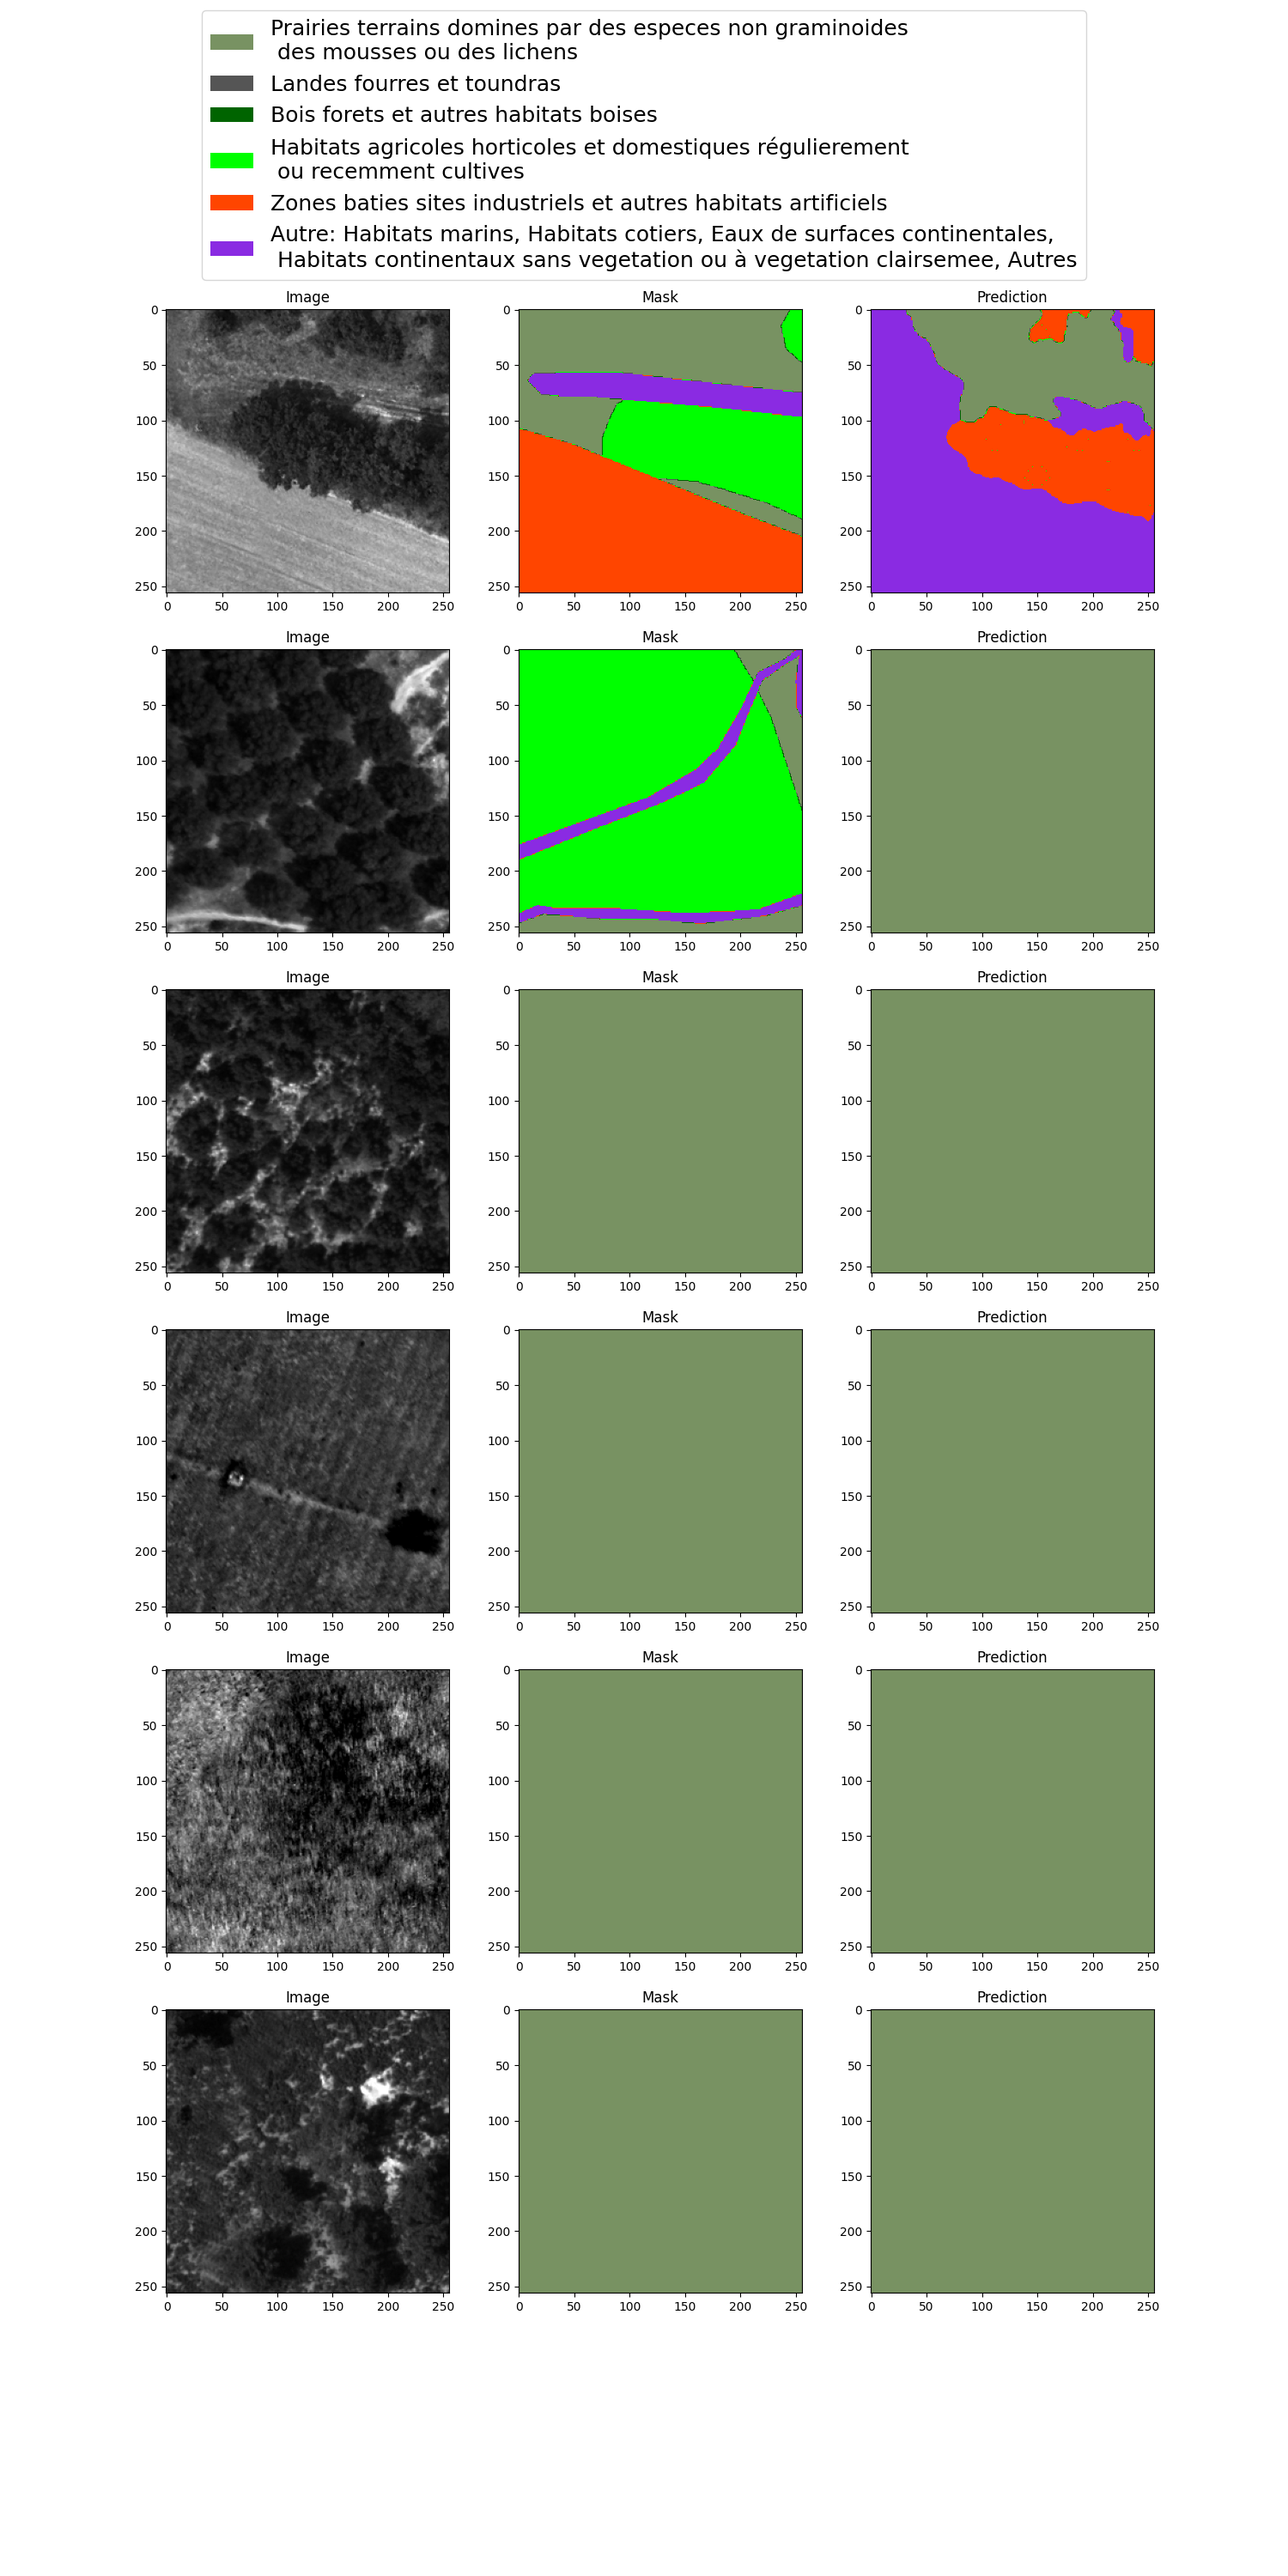
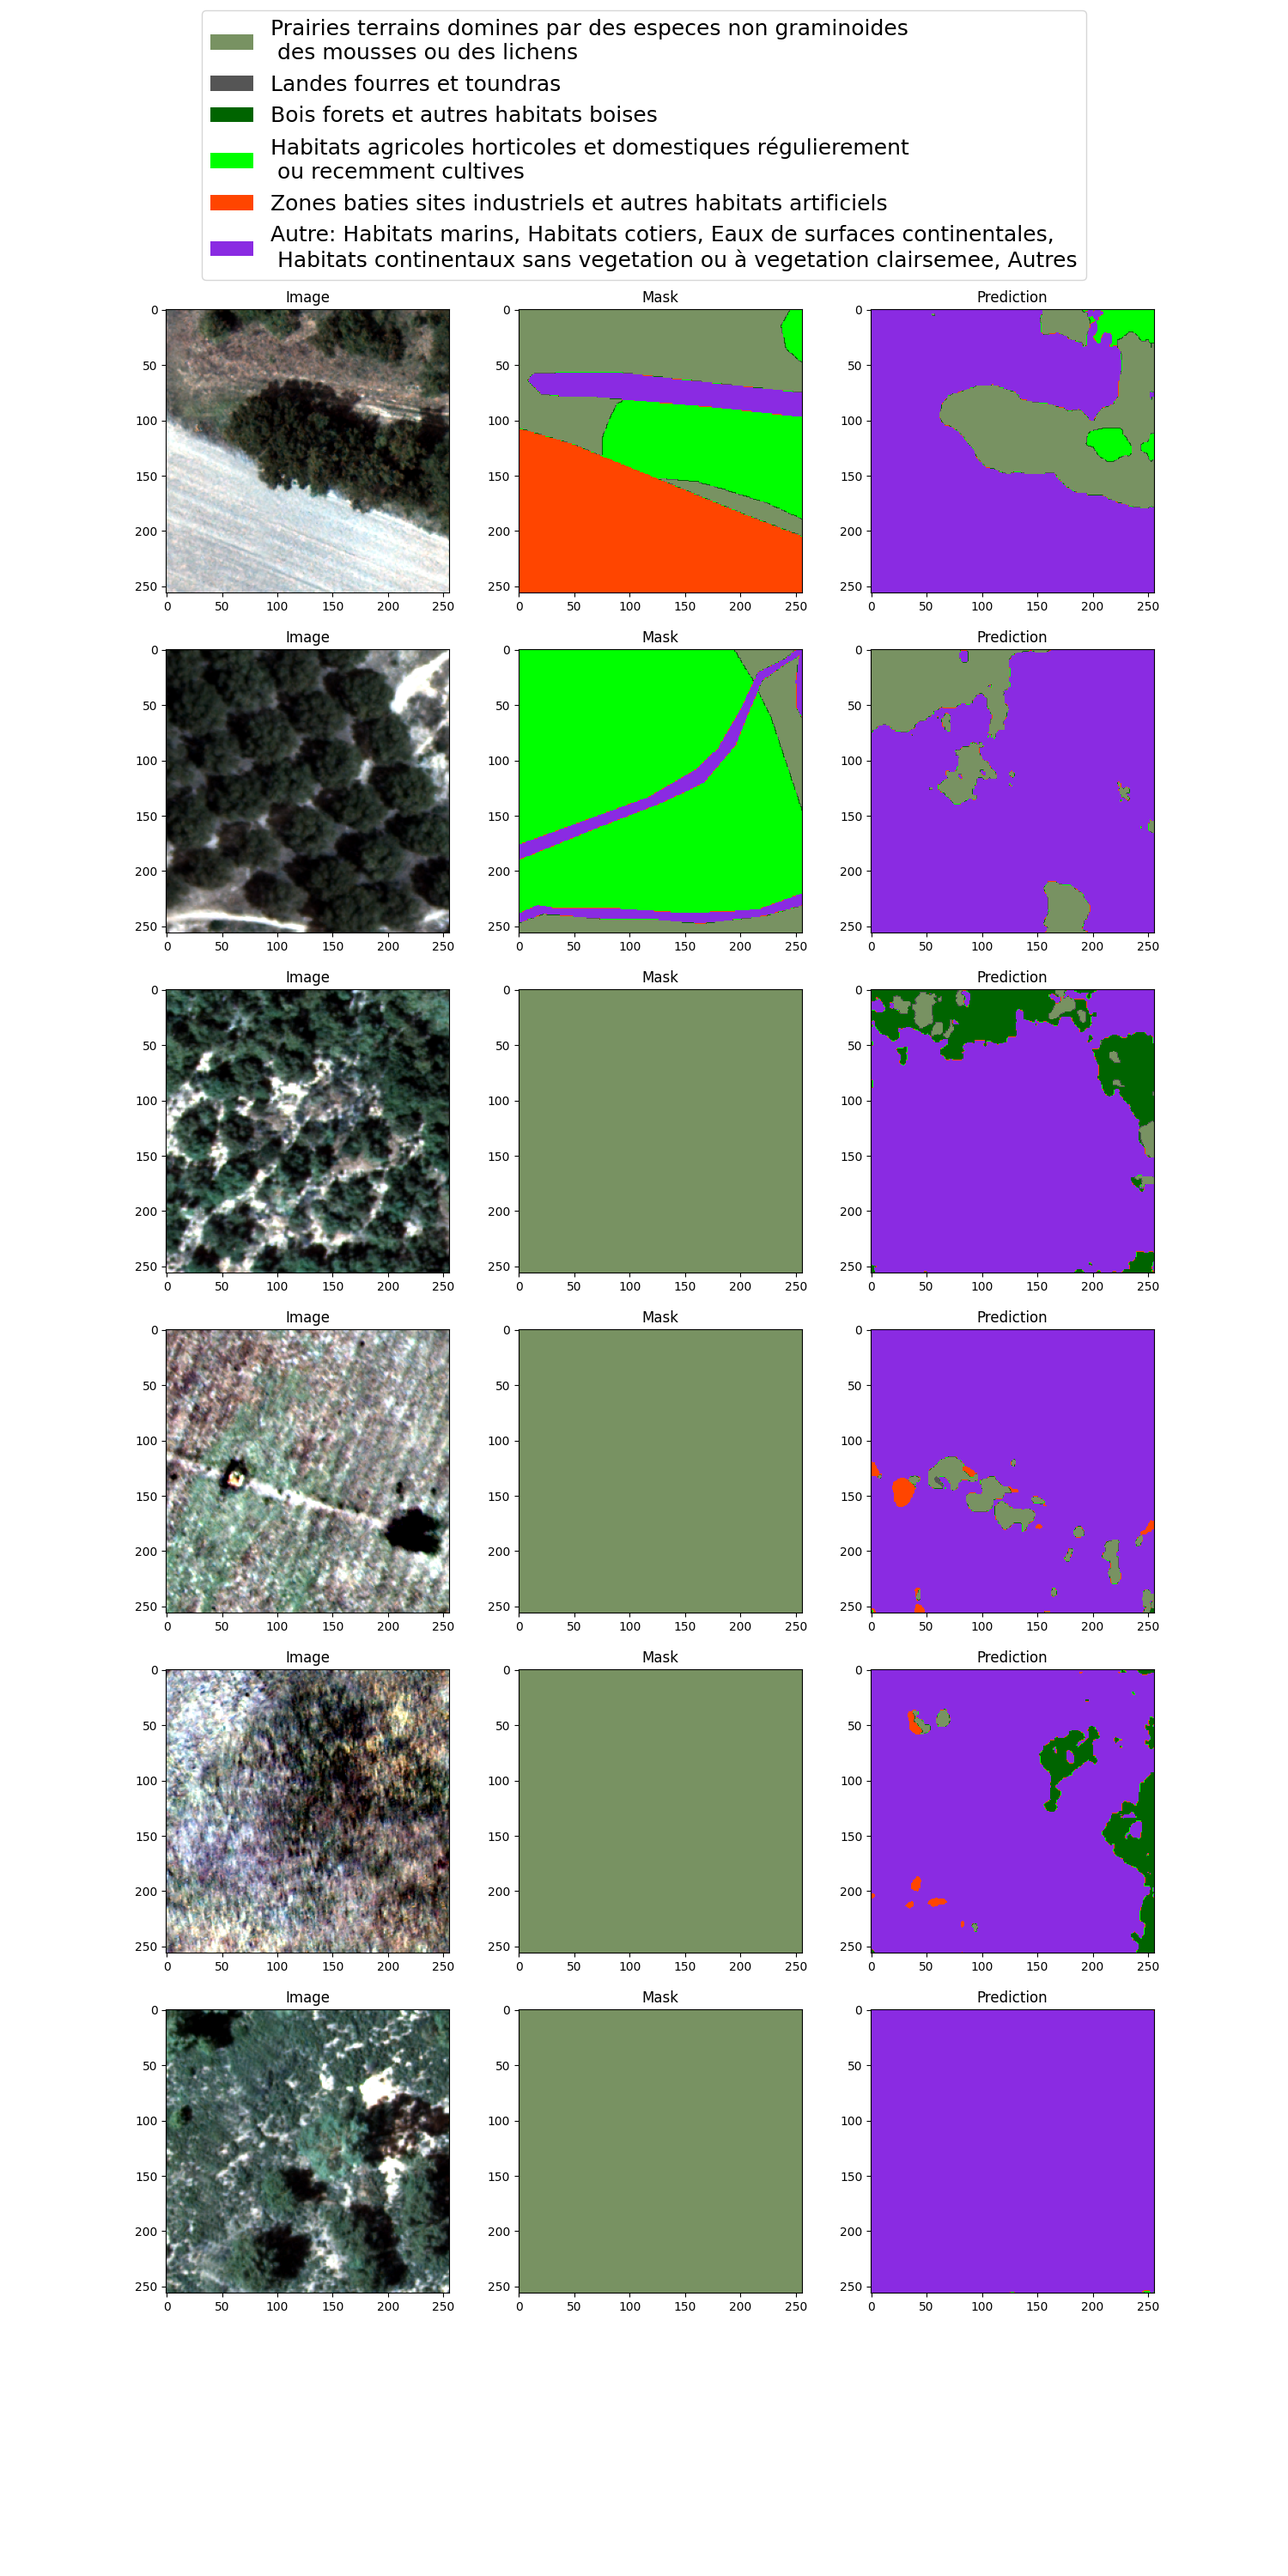
plot image

Changed region(s): [[0.1227, 0.124, 0.368, 0.899], [0.6747, 0.248, 0.92, 0.899], [0.7053, 0.093, 0.92, 0.217]]

diff --git a/src/unet/unet_utils.py b/src/unet/unet_utils.py
@@ -12,6 +12,7 @@ import seaborn as sns
 import albumentations as A
 from albumentations.pytorch import ToTensorV2
 from matplotlib.patches import Patch
+import torchvision.transforms.functional as F
 
 not_mediterranean_zones = ['zone65', 'zone66', 'zone67', 'zone68', 'zone69','zone78',  'zone167', 'zone169', 'zone170', 'zone171', 'zone172']
 
@@ -45,19 +46,26 @@ class EcomedDataset(Dataset):
                 img = img[:3]
             # turn to values betw 0 and 1 and to float
             # linear normalisation with p2 and p98
-            p2, p98 = np.percentile(img, (2, 98))
-            img = np.clip(img, p2, p98)
-            img = (img - p2) / (p98 - p2)
-            img = img.astype(np.float32)
-            
+            #p2, p98 = np.percentile(img, (2, 98))
+            #img = np.clip(img, p2, p98)
+            #img = (img - p2) / (p98 - p2)
+            #img = img.astype(np.float32)
+            # Normalize each channel separately
+            normalized_img = np.zeros_like(img, dtype=np.float32)
+            for c in range(self.channels):
+                channel = img[c, :, :]
+                p2, p98 = np.percentile(channel, (2, 98))
+                channel = np.clip(channel, p2, p98)
+                channel = (channel - p2) / (p98 - p2)
+                normalized_img[c, :, :] = channel.astype(np.float32)
         if self.transform:
-            augmented = self.transform(image=img[0:3].transpose(1, 2, 0), mask=msk_mapped)
+            augmented = self.transform(image=normalized_img[0:3].transpose(1, 2, 0), mask=msk_mapped)
             aug_img = augmented['image']
             msk_mapped = augmented['mask']
             # add fourth channel from img to img
-            img = np.concatenate((aug_img, img[3:4]), axis=0)
+            img = np.concatenate((aug_img, normalized_img[3:4]), axis=0)
 
-        return img, msk_mapped
+        return normalized_img, msk_mapped
     
 def load_data_paths(img_folder, msk_folder, stratified, random_seed, split, **kwargs):
     print('The seed to shuffle the data is ', str(random_seed))
@@ -332,7 +340,20 @@ def plot_pred(img, msk, out, pred_plot_path, my_colors_map, nb_imgs, habitats_di
     
 
     for i in range(nb_imgs):
-        axs[i, 0].imshow(img[i, 0], cmap='gray') # change to color! 
+        # get values from img[i]
+        print('img[i].shape', img[i].shape)
+        print(img[i])
+
+        rgb_img = img[i][:3, :, :]
+        #rgb_img[1] *= 0.8
+        # augment the brightness of the image
+        #rgb_img = rgb_img + 0.1
+        # turn to values betw 0 and 1
+        #rgb_img = np.clip(rgb_img, 0, 1)
+
+        rgb_img = rgb_img.transpose(1, 2, 0)
+
+        axs[i, 0].imshow(rgb_img)#/float(5000.0))
         axs[i, 0].set_title('Image')
         axs[i, 1].imshow(msk[i], cmap=custom_cmap_msk)
         axs[i, 1].set_title('Mask')
@@ -341,6 +362,48 @@ def plot_pred(img, msk, out, pred_plot_path, my_colors_map, nb_imgs, habitats_di
 
     fig.legend(handles=legend_elements, loc='upper center', fontsize=18)#, labelspacing = 1.15)
     plt.savefig(pred_plot_path)
+
+def plot_patch_msk(img, msk, pred_plot_path, my_colors_map, nb_imgs, habitats_dict):
+    classes_msk = np.unique(msk)
+    legend_colors_msk = [my_colors_map[c] for c in classes_msk]
+    custom_cmap_msk = mcolors.ListedColormap(legend_colors_msk)
+
+    fig, axs = plt.subplots(nb_imgs, 2, figsize=(15, 5*nb_imgs))
+    fig.subplots_adjust(top=0.9, bottom=0.02)
+    classes = classes_msk
+    # get the unique classes
+    classes = np.unique(classes)
+    class_color = {c: my_colors_map[c] for c in classes}
+
+    unique_labels = set()
+    legend_elements = []
+    for l, color in class_color.items():
+        label = habitats_dict[l]
+        legend_elements.append(Patch(facecolor=color, label=label))
+        unique_labels.add(label)
+    
+
+    for i in range(nb_imgs):
+        # get values from img[i]
+        print('img[i].shape', img[i].shape)
+        print(img[i])
+
+        rgb_img = img[i][:3, :, :]
+        #rgb_img[1] *= 0.8
+        # augment the brightness of the image
+        #rgb_img = rgb_img + 0.1
+        # turn to values betw 0 and 1
+        #rgb_img = np.clip(rgb_img, 0, 1)
+        print('rgb_img.shape', rgb_img.shape)
+        rgb_img = rgb_img.permute(1, 2, 0)
+
+        axs[i, 0].imshow(rgb_img)#/float(5000.0))
+        axs[i, 0].set_title('Image')
+        axs[i, 1].imshow(msk[i], cmap=custom_cmap_msk)
+        axs[i, 1].set_title('Mask')
+    fig.legend(handles=legend_elements, loc='upper center', fontsize=18)#, labelspacing = 1.15)
+    plt.savefig(pred_plot_path)
+    print('Plot saved at:', pred_plot_path)
 
 def plot_losses_ious(losses_ious_path, losses_plot_path, ious_plot_path):
     # Read the CSV file into a DataFrame

diff --git a/src/unet/plot_patch.py b/src/unet/plot_patch.py
@@ -1,0 +1,82 @@
+import numpy as np
+from pathlib import Path
+import pandas as pd
+import rasterio
+import matplotlib.pyplot as plt
+import matplotlib.colors as mcolors
+import sys
+
+import torch
+import torch.nn as nn
+import torch.optim as optim
+from torch.utils.data import DataLoader
+import segmentation_models_pytorch as smp
+import gc
+
+from datetime import datetime
+
+from unet_utils import *
+from unet_settings import *
+
+import warnings
+warnings.filterwarnings("ignore", category=rasterio.errors.NotGeoreferencedWarning)
+
+import albumentations as A
+from albumentations.pytorch import ToTensorV2
+
+print('----------------------- UNet -----------------------')
+print(f'Patch size: {patch_level_param["patch_size"]}')
+print(f'Classification level: {patch_level_param["level"]}')
+device = torch.device('cuda' if torch.cuda.is_available() else 'cpu') #
+print(f'Using device: {device}')
+torch.cuda.empty_cache()
+gc.collect()
+
+
+## DATA
+print('Loading data...')
+print('Data loading settings:')
+print(f'Splitting data: {data_loading_settings["split"]}')
+print(f'Stratified: {data_loading_settings["stratified"]}')
+print(f'Batch size: {data_loading_settings["bs"]}')
+
+if data_loading_settings['data_augmentation']: 
+    transform = A.Compose([
+        A.RandomBrightnessContrast(p=0.5),
+        A.HueSaturationValue(p=0.5),
+        A.GaussNoise(p=0.5),
+        ToTensorV2(), 
+    ])
+else: 
+    print('No data augmentation')
+    transform = None
+
+train_paths, val_paths, test_paths = load_data_paths(**data_loading_settings)
+#print(f'Train: {len(train_paths)} images, Val: {len(val_paths)} images, Test: {len(test_paths)} images')
+train_ds = EcomedDataset(train_paths, data_loading_settings['img_folder'], level=patch_level_param['level'], channels = model_settings['in_channels'], transform = transform)
+train_dl = DataLoader(train_ds, batch_size=data_loading_settings['bs'], shuffle=True)
+val_ds = EcomedDataset(val_paths, data_loading_settings['img_folder'], level=patch_level_param['level'], channels = model_settings['in_channels'])
+val_dl = DataLoader(val_ds, batch_size=data_loading_settings['bs'], shuffle=False)
+test_ds = EcomedDataset(test_paths, data_loading_settings['img_folder'], level=patch_level_param['level'], channels = model_settings['in_channels'])
+test_dl = DataLoader(test_ds, batch_size=data_loading_settings['bs'], shuffle=False)
+
+# print size of train, val and test and proportion it rperesents compared to the total size of the dataset
+print(f'Train: {len(train_ds)} images, Val: {len(val_ds)} images, Test: {len(test_ds)} images')
+print(f'Train: {len(train_ds)/len(train_ds+val_ds+test_ds)*100:.2f}%, Val: {len(val_ds)/len(train_ds+val_ds+test_ds)*100:.2f}%, Test: {len(test_ds)/len(train_ds+val_ds+test_ds)*100:.2f}%')
+
+#plot 30 patches in 3 columns 10 rows from the train_dl
+
+for i in range(5):
+    img, msk = next(iter(train_dl))
+    name = plotting_settings['img_msk_plot_path'][:-4] + 'train_dl_' + str(i) + '.png'
+    plot_patch_msk(img, msk, name, plotting_settings['my_colors_map'], 10, plotting_settings['habitats_dict'])
+
+for i in range(5):
+    img, msk = next(iter(val_dl))
+    name = plotting_settings['img_msk_plot_path'][:-4] + 'val_dl_' + str(i) + '.png'
+    plot_patch_msk(img, msk, name, plotting_settings['my_colors_map'], 10, plotting_settings['habitats_dict'])
+
+for i in range(5):
+    img, msk = next(iter(test_dl))
+    name = plotting_settings['img_msk_plot_path'][:-4] + 'test_dl_' + str(i) + '.png'
+    plot_patch_msk(img, msk, name, plotting_settings['my_colors_map'], 10, plotting_settings['habitats_dict'])

diff --git a/src/unet/classes_balance_l2.py b/src/unet/classes_balance_l2.py
@@ -145,7 +145,7 @@ for l1_int in l1_ints:
     # add title
     l1_int_name = plotting_settings['habitats_dict'].get(l1_int, 'Unknown')
     ax.set_title(f'Balance of level 2 classes derived from the level 1 class {l1_int} : \n {l1_int_name}')
-    plt.savefig(f'classes_balance_l2_c{l1_int}_{data_loading_settings["stratified"]}_seed{data_loading_settings["random_seed"]}.png')
+    #plt.savefig(f'classes_balance_l2_c{l1_int}_{data_loading_settings["stratified"]}_seed{data_loading_settings["random_seed"]}.png')
     plt.close(fig)
 
 fig, ax = plt.subplots()
@@ -157,7 +157,7 @@ balance_classes_total = balance_classes_total.drop(columns='l1_int')
 # to serie 
 print(balance_classes_total)
 
-ax.bar(x, balance_classes_total['total'], color=color_map)
+ax.bar(x, balance_classes_total['total'], color=color_map, width=0.8)
 # add ercentage on top of bars round to 0 decimals
 for i, v in enumerate(balance_classes_total['total']):
     #rotation to ahvee text in vertical
@@ -179,7 +179,7 @@ plt.tight_layout(rect=[0, 0, 1, 0.6])'''
 #plt.tight_layout(rect=[0, 0, 0.85, 1])
 # title
 ax.set_title('Balance classes at level 2 in the whole dataset')
-plt.savefig(f'classes_balance_l2_total_{data_loading_settings["stratified"]}_seed{data_loading_settings["random_seed"]}.png')
+plt.savefig(f'classes_balance_l2_total_{data_loading_settings["stratified"]}_seed{data_loading_settings["random_seed"]}_v2.png')
 '''for col in balance_classes.columns:
     balance_classes[col] = round(balance_classes[col]*100 / balance_classes[col].sum(), 2)
 print(balance_classes)'''

diff --git a/src/unet/unet_settings.py b/src/unet/unet_settings.py
@@ -5,9 +5,9 @@ import pandas as pd
 
 ## SETTINGS
 # -------------------------------------------------------------------------------------------
-test_existing_model = False
+test_existing_model = True
 if test_existing_model: 
-    name_setting = '3_stratified_shuffling_by_zone_seed3'
+    name_setting = '0_random_shuffling_seed1'
     #laod all variables from csv best_epoch_to_test
     best_epoch = pd.read_csv(f'../../unet_256_l1/best_epoch_to_test.csv')
     #remov the space before alla values and name columns
@@ -134,6 +134,7 @@ plotting_settings = {
     'IoU_path': f'../../{config_name}/metrics_test/IoUs.csv',
     'F1_path': f'../../{config_name}/metrics_test/F1s.csv',
     'pred_plot_path': f'../../{config_name}/metrics_test/test_preds.png',
+    'img_msk_plot_path': f'../../{config_name}/img_msk.png',
 }
 
 # Save important settings in a csv file: 

diff --git a/src/unet/unet.py b/src/unet/unet.py
@@ -225,7 +225,7 @@ else:
         param.to(device)
 
 # TESTING
-model.eval()
+'''model.eval()
 with torch.no_grad():
     print('Testing')
     test_loss, metrics = valid_test(model, test_dl, criterion, device, model_settings['classes'], 'test')
@@ -258,7 +258,7 @@ ax = sns.heatmap(confusion_matrix_normalized, annot=True, fmt=".2f", cmap='Blues
 plt.xlabel('Predicted labels')
 plt.ylabel('True labels')
 plt.title('Normalized confusion matrix')
-plt.savefig(plotting_settings['confusion_matrix_path'])
+plt.savefig(plotting_settings['confusion_matrix_path'])'''
 
 # PLOTTING TEST PREDICTIONS
 if plotting_settings['plot_test']:

diff --git a/src/data_pre_processing/pipeline.py b/src/data_pre_processing/pipeline.py
@@ -51,7 +51,7 @@ else:
     print('STEP 0, create_pivot_table, skipped.')
     intersect_df = pd.read_csv(pivot_table_path)
 
-# ------------------------------STEP 1: RASTERIZE POLYGONS--------------------------------#
+# ------------------------------STEP 1: CREATE LABELS DICT--------------------------------#
 
 if pre_processing_steps['1_create_labels_dict']: 
     # UNIQUE CLASSES AT 3 LEVELS FOR ALL MY POLYGONS
